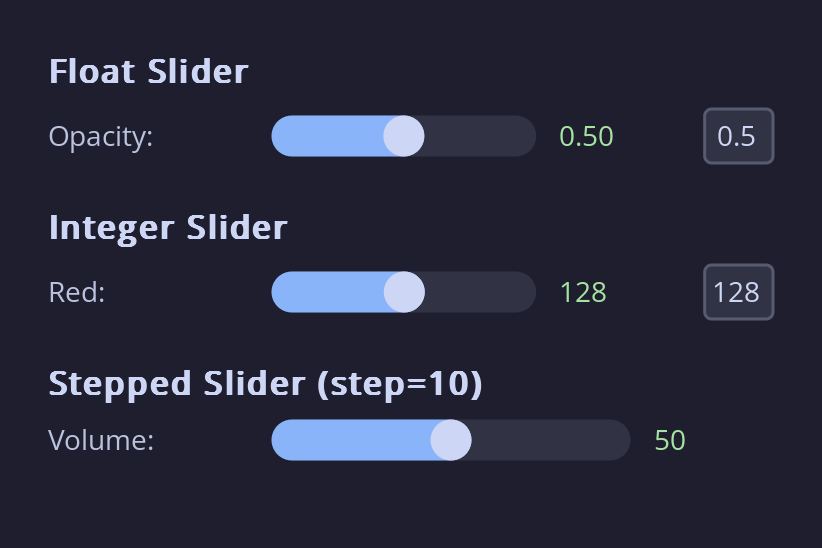
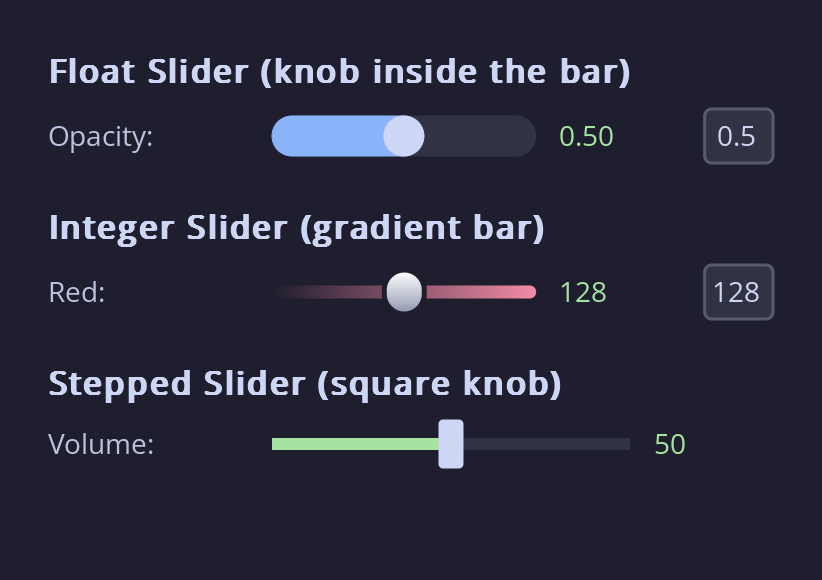
Docs: explain the texture view, and show the OpenGL demo
Adi.Widget.Texture_View had nothing written about it beyond a row in the
XML widget table. docs/texture_view.md covers both ways of handing over
a surface, the renderer-driver constraint that decides whether a shared
texture is reachable at all, and why Clear_Texture is how an application
says a handle is dead: GL and the D3D runtime both hand back a name or
address that was just freed.

README gains an Extras section for the crates under extras/, and the
slider capture catches up with the example's three knob styles.

diff --git a/docs/texture_view.md b/docs/texture_view.md
@@ -1,0 +1,192 @@
+<!--
+SPDX-FileCopyrightText: 2026 Aldo Nicolas Bruno
+SPDX-License-Identifier: Apache-2.0
+-->
+
+# Texture view
+
+`Adi.Widget.Texture_View` shows a surface the application drew itself —
+with OpenGL, Direct3D, Vulkan, or a plain pixel buffer. Adi issues no
+graphics-API call of its own and owns none of it. The application renders
+on its own schedule, in its own task if it wants, names the surface it
+finished, and the view blits it where the layout put the widget, under
+the same clipping, z-order and opacity as any other widget.
+
+That makes it the widget for anything Adi does not draw: a 3D viewport, a
+video frame, an off-screen browser, a plotting library's output.
+
+## Picking a renderer the texture can reach
+
+A texture belongs to the API that made it, and SDL builds its renderer
+with one API per platform: OpenGL is usual on Linux, Direct3D on Windows,
+Metal on macOS. A GL texture cannot be handed to a D3D renderer.
+
+Ask for a backend before the first window — SDL reads the hint when it
+builds the renderer and ignores it afterwards — and then read back what
+you were actually given rather than assuming:
+
+```ada
+Adi.Window.Prefer_Render_Driver ("opengl");   --  before any window
+...
+if Adi.Window.Render_Driver (W) /= Driver_Name (OpenGL) then
+   --  The request was not granted. Fall back to Set_Pixels.
+end if;
+```
+
+`Driver_Name (Backend)` gives the renderer name each backend answers to,
+so the comparison does not hard-code a string.
+
+This step does not apply to `Set_Pixels`, which works on every backend.
+
+## Handing over a surface
+
+### A texture you already own
+
+`Set_Texture` adopts an existing GPU object. It comes in two shapes,
+because the APIs name their objects differently:
+
+```ada
+--  OpenGL, GLES and Vulkan name a texture with an integer.
+procedure Set_Texture (H       : Texture_View_Handle;
+                       Backend : Backend_Kind;
+                       Name    : Interfaces.Unsigned_64;
+                       Width   : Natural;
+                       Height  : Natural;
+                       Format  : Texture_Format := RGBA;
+                       Alpha   : Alpha_Kind := Straight;
+                       Layout  : Interfaces.Unsigned_64 := 0)
+  with Pre => Backend in OpenGL | OpenGLES2 | Vulkan;
+
+--  Direct3D and the SDL GPU API hand over a pointer.
+procedure Set_Texture (H       : Texture_View_Handle;
+                       Backend : Backend_Kind;
+                       Object  : System.Address;
+                       Width   : Natural;
+                       Height  : Natural;
+                       Format  : Texture_Format := RGBA;
+                       Alpha   : Alpha_Kind := Straight)
+  with Pre => Backend in D3D11 | D3D12 | GPU;
+```
+
+`Layout` matters to Vulkan alone, where SDL needs to be told the image
+layout it is being handed.
+
+Metal is absent on purpose: SDL adopts a `CVPixelBufferRef` there rather
+than a texture, which does not fit this shape.
+
+### Pixels from the CPU
+
+`Set_Pixels` copies a buffer into a texture the view owns and reuses. It
+is the path that always works — no shared handle, no matching the
+texture's API against the renderer's — and the only one where a backend
+cannot adopt foreign objects at all.
+
+```ada
+procedure Set_Pixels (H      : Texture_View_Handle;
+                      Data   : System.Address;
+                      Width  : Natural;
+                      Height : Natural;
+                      Pitch  : Natural;
+                      Format : Texture_Format := RGBA;
+                      Alpha  : Alpha_Kind := Straight;
+                      Region : Pixel_Region := Whole_Surface);
+```
+
+`Width` and `Height` describe the whole surface, whatever `Region` says.
+`Region` names the part of it `Data` holds, and `Data` addresses that
+part rather than the surface it belongs to: a producer sending a caret
+sends the caret, and the rest of the surface keeps what it was last
+given. A `Region` of no extent — `Whole_Surface` — stands for all of it.
+
+Repainting only what changed is the point: a blinking caret is a few
+hundred pixels, and the 4K surface holding it is thirty megabytes to
+upload.
+
+`Pitch` is the byte distance between rows of `Data`, which is not always
+their width. The last row is read to its width and no further, so
+`Pitch * (Rows - 1) + Columns * 4` bytes is enough — which is what a
+producer with a tight last row allocates.
+
+## Saying the contents changed
+
+```ada
+procedure Invalidate (H : Texture_View_Handle);
+```
+
+The view cannot notice on its own — the texture it holds is the same
+object — and Adi composites only what it believes changed. A producer
+redrawing every frame says so every frame, or the window keeps showing
+the last frame it saw. `Set_Pixels` marks the region it wrote, so this is
+for the shared-texture path.
+
+## Releasing
+
+```ada
+procedure Clear_Texture (H : Texture_View_Handle);
+```
+
+The view falls back to its own background and border, and lets go of
+every texture it made.
+
+Letting go is also how an application says a handle is dead, and this is
+the one rule worth reading twice. A view keeps the texture it wrapped a
+handle in, keyed by everything it was told about it, so a producer
+rotating a pool of shared textures does not pay a create and a destroy
+every frame. A producer that frees a texture and is handed **the same
+name or the same address back** for a new one — which both GL and the
+D3D runtime do — would otherwise be given the wrapper for what used to be
+there, and SDL would draw through a destroyed object. Call
+`Clear_Texture` before you free.
+
+## Format and alpha
+
+```ada
+type Texture_Format is (RGBA, BGRA, ARGB, ABGR);
+type Alpha_Kind is (Straight, Premultiplied);
+```
+
+`Texture_Format` is byte order in memory, which is what a producer
+actually knows about its own buffer. Naming it this way rather than by
+packed word means the answer does not change with endianness: an
+off-screen browser hands over BGRA whatever the machine.
+
+`Alpha_Kind` says whether colour has already been scaled by its own
+alpha. Compositing a premultiplied surface as if it were straight darkens
+every antialiased edge, which reads as a coloured fringe on text.
+
+## When nothing appears
+
+```ada
+function Last_Error (H : Texture_View_Handle) return String;
+```
+
+Empty once a texture has been shown. Otherwise it says why it could not
+be: usually that the texture's API is not the one SDL built the renderer
+with, and otherwise that an upload was refused. Neither draws anything on
+its own, so this is the only account of it.
+
+A description SDL refuses is not retried every frame — the view records
+what failed, not when.
+
+## In XML
+
+The tag is `texture-view`, and the built-in grammar knows it, so a
+generated UI needs no `--grammar` of its own:
+
+```xml
+<box class="frame">
+  <texture-view id="View" class="gl"/>
+</box>
+```
+
+It styles like any other widget. Backgrounds, borders and padding apply
+around the blit; the blit itself is a plain rectangle, so a rounded
+corner belongs on a parent box rather than on the view.
+
+## Worked example
+
+[`extras/opengl_demo`](../extras/opengl_demo) draws a spinning
+tetrahedron with OpenGL into a texture it owns and shows it through a
+texture view, with Adi widgets driving the rotation, size and colour.
+It is a separate Alire crate, so the core library keeps no OpenGL
+dependency.

diff --git a/README.md b/README.md
@@ -169,6 +169,34 @@ Full build instructions, including building without Alire, in [`docs/build.md`](
 
 ---
 
+## Extras
+
+Companion crates under [`extras/`](extras/). Each is its own Alire crate
+with its own dependencies, so the library never acquires them.
+
+### `opengl_demo`
+
+![gl_triangle](extras/opengl_demo/screenshot.png)
+
+A tetrahedron drawn by OpenGL into a texture the application owns, shown
+through a `texture-view` widget and driven by ordinary Adi sliders and
+switches. Adi issues no GL call and never destroys the texture: it is
+handed the texture's name and blits it where the layout put the widget,
+under the same clipping and opacity as anything else.
+
+```bash
+cd extras/opengl_demo
+./gen.sh          # Ada from the crate's XML and CSS
+alr build
+./bin/gl_triangle
+```
+
+How the widget works, and the other ways to hand it a surface —
+Direct3D, Vulkan, or plain CPU pixels — in
+[`docs/texture_view.md`](docs/texture_view.md).
+
+---
+
 ## Roadmap
 
 **CSS.**
@@ -244,6 +272,7 @@ Rendering goes through the SDL renderer abstraction, so it takes hardware accele
 | CSS styling — selectors, properties, runtime API, codegen | [`docs/css_styling.md`](docs/css_styling.md) |
 | Declarative XML UIs and the widget grammar | [`docs/xml_ui_system.md`](docs/xml_ui_system.md) |
 | HTML view widget specification | [`docs/html_view_spec.md`](docs/html_view_spec.md) |
+| Texture view — showing a surface your app drew on the GPU | [`docs/texture_view.md`](docs/texture_view.md) |
 | Static asset bundling (single-binary deployments) | [`docs/static_assets.md`](docs/static_assets.md) |
 | Internationalization, plurals, `.po` compilation | [`docs/i18n.md`](docs/i18n.md) |
 | Settings store with JSON backend | [`docs/settings.md`](docs/settings.md) |

diff --git a/CLAUDE.md b/CLAUDE.md
@@ -24,6 +24,7 @@ Before making changes, read the relevant documentation. Do not guess at APIs or 
 | gprbuild without Alire | `docs/gprbuild_without_alire.md` |
 | MCP runtime introspection | `docs/mcp.md` |
 | HTML view widget | `docs/html_view_spec.md` |
+| Texture view widget (a surface the app drew: OpenGL, D3D, Vulkan, CPU pixels) | `docs/texture_view.md` |
 | Adding a new CSS property | `docs/adding_css_property.md` |
 | Adding a new example | `docs/adding_example.md` |
 | Adding a new test | `docs/adding_test.md` |
